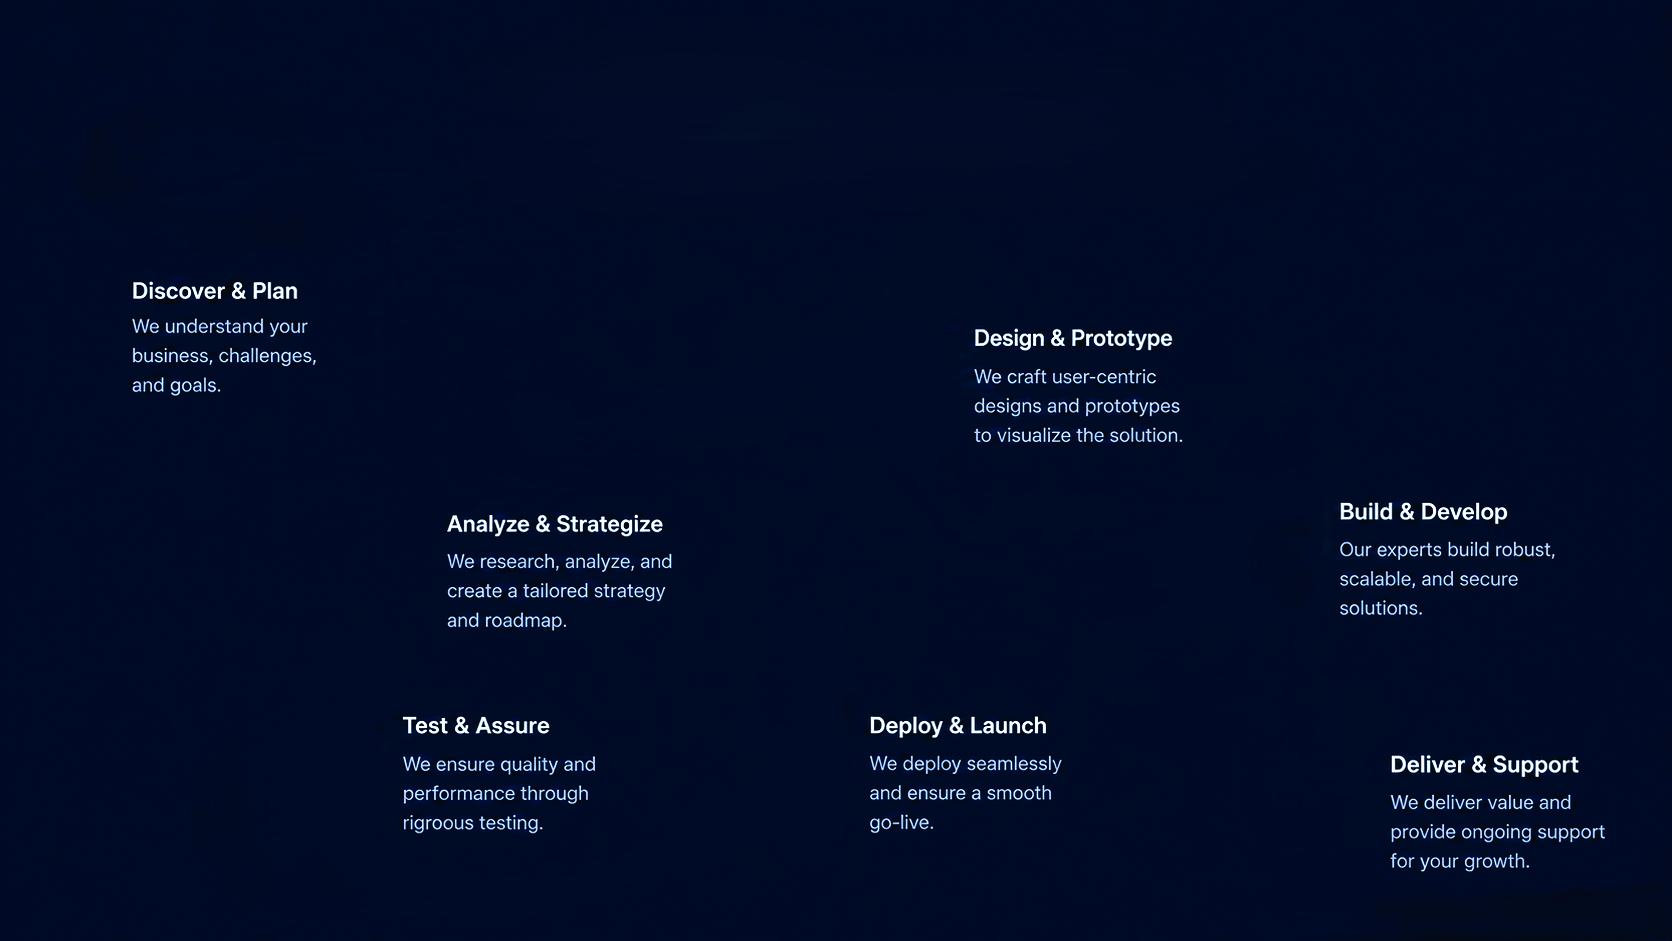
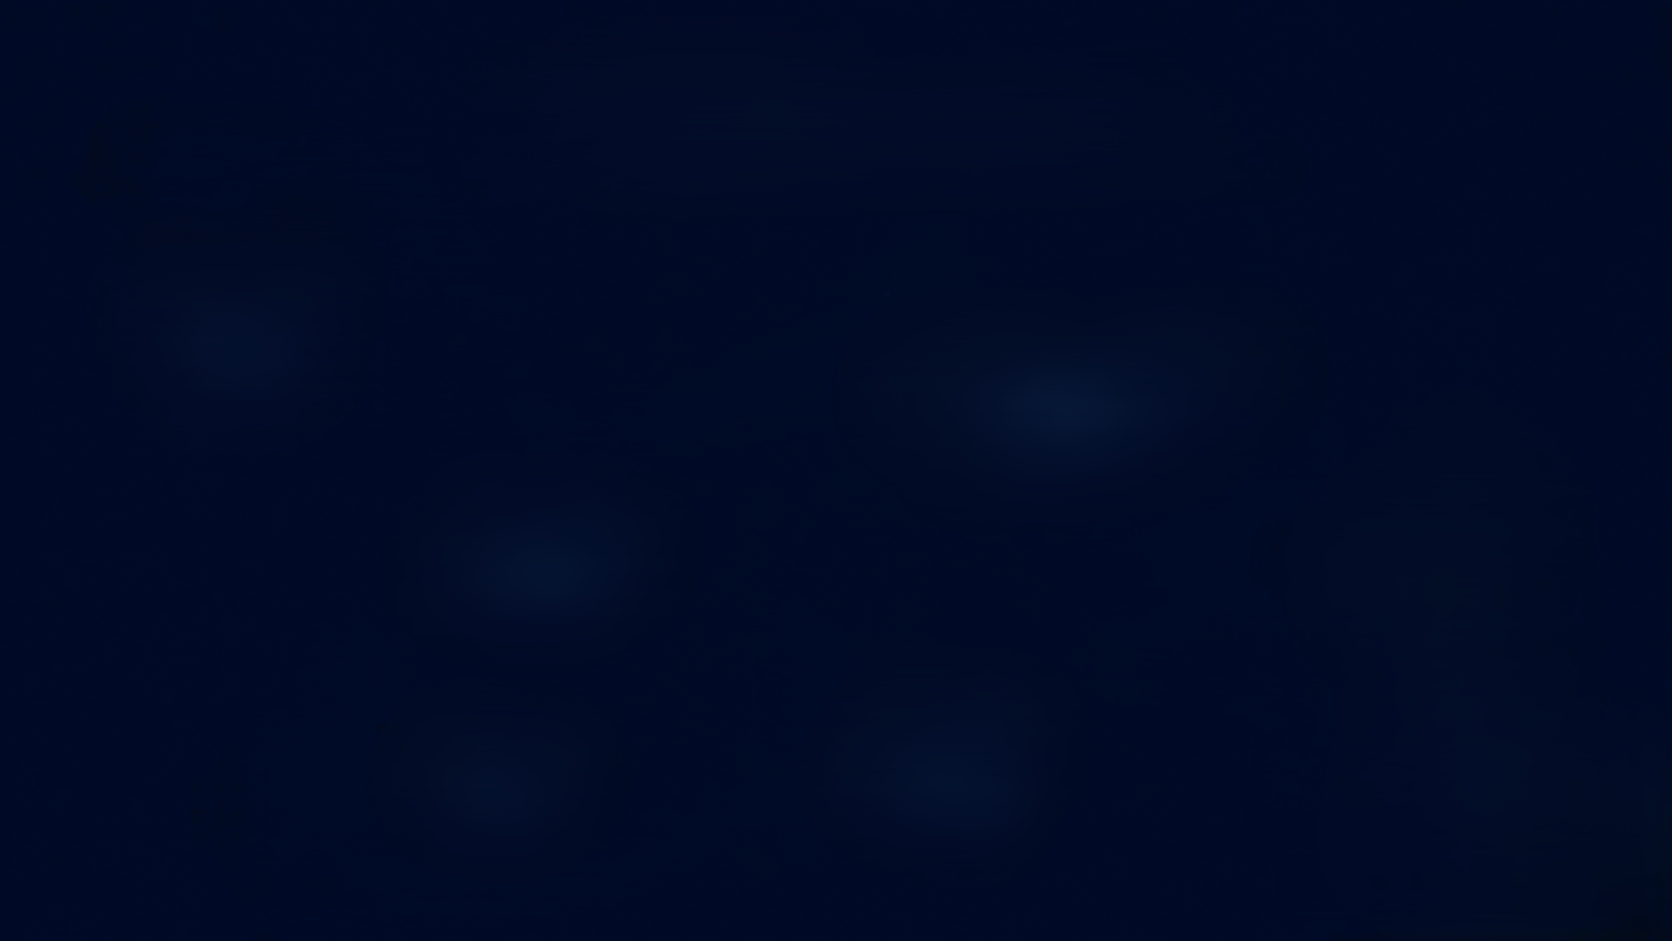
process

diff --git a/components/site/interactive-process-3d.js b/components/site/interactive-process-3d.js
@@ -19,6 +19,7 @@ const PROCESS_STEPS = [
     glowColor: 'rgba(0, 102, 255, 0.95)',
     duration: '2 - 3 Weeks',
     pos: { top: '15.5%', left: '10%' },
+    textPos: { top: '28%', left: '8%' },
     point: { x: 100, y: 62 }
   },
   {
@@ -31,6 +32,7 @@ const PROCESS_STEPS = [
     glowColor: 'rgba(30, 86, 216, 0.95)',
     duration: '3 - 4 Weeks',
     pos: { top: '45.5%', left: '28.5%' },
+    textPos: { top: '55%', left: '26.5%' },
     point: { x: 285, y: 182 }
   },
   {
@@ -43,6 +45,7 @@ const PROCESS_STEPS = [
     glowColor: 'rgba(0, 180, 216, 0.95)',
     duration: '3 - 5 Weeks',
     pos: { top: '36.8%', left: '54.2%' },
+    textPos: { top: '34%', left: '58.5%' },
     point: { x: 542, y: 147 }
   },
   {
@@ -55,6 +58,7 @@ const PROCESS_STEPS = [
     glowColor: 'rgba(16, 185, 129, 0.95)',
     duration: '6 - 12 Weeks',
     pos: { top: '53.2%', left: '76%' },
+    textPos: { top: '52%', left: '80%' },
     point: { x: 760, y: 213 }
   },
   {
@@ -67,6 +71,7 @@ const PROCESS_STEPS = [
     glowColor: 'rgba(245, 158, 11, 0.95)',
     duration: '2 - 4 Weeks',
     pos: { top: '75.2%', left: '19.5%' },
+    textPos: { top: '75%', left: '24%' },
     point: { x: 195, y: 301 }
   },
   {
@@ -79,6 +84,7 @@ const PROCESS_STEPS = [
     glowColor: 'rgba(249, 115, 22, 0.95)',
     duration: '1 - 2 Weeks',
     pos: { top: '75.6%', left: '47.4%' },
+    textPos: { top: '75%', left: '52%' },
     point: { x: 474, y: 302 }
   },
   {
@@ -91,6 +97,7 @@ const PROCESS_STEPS = [
     glowColor: 'rgba(147, 51, 234, 0.95)',
     duration: 'Ongoing SLA',
     pos: { top: '80.2%', left: '78.8%' },
+    textPos: { top: '79%', left: '82.5%' },
     point: { x: 788, y: 321 }
   }
 ];
@@ -107,6 +114,7 @@ const SEGMENT_PATHS = [
 
 export default function InteractiveProcess3D() {
   const [activeStep, setActiveStep] = useState(0);
+  const [hoveredStep, setHoveredStep] = useState(null);
 
   // Continuous Zero-Delay Sequential Path Drawing Animation Loop: 01 -> 02 -> 03 -> 04 -> 05 -> 06 -> 07 -> Reset Loop
   useEffect(() => {
@@ -169,7 +177,7 @@ export default function InteractiveProcess3D() {
             </div>
 
             {/* DESKTOP VIEW BLUEPRINT STAGE (hidden sm:block) - Uses PROCESS.png + Interactive Overlays */}
-            <div className="hidden sm:block relative w-full h-[460px] md:h-[510px] rounded-xl overflow-hidden bg-[#050c1a] border border-[#1b3663]">
+            <div className="hidden sm:block relative w-full h-[480px] md:h-[530px] rounded-xl overflow-hidden bg-[#050c1a] border border-[#1b3663]">
               
               {/* Background Stretched Blueprint Image */}
               <div className="w-full h-full relative">
@@ -178,7 +186,7 @@ export default function InteractiveProcess3D() {
                   alt="From Idea to Impact Process Flow Blueprint"
                   fill
                   priority
-                  className="object-fill w-full h-full"
+                  className="object-fill w-full h-full opacity-60"
                 />
               </div>
 
@@ -234,8 +242,6 @@ export default function InteractiveProcess3D() {
                   ))}
                 </defs>
 
-
-
                 {/* 6 SEQUENTIAL DOTTED PATHS (TRUE ROUND DOTTED BEAD LINES PROGRESSIVELY REVEALED) */}
                 {SEGMENT_PATHS.map((seg) => {
                   const isPastSegment = activeStep > seg.fromStep;
@@ -246,7 +252,7 @@ export default function InteractiveProcess3D() {
 
                   return (
                     <g key={`group-${seg.id}`}>
-                      {/* Crisp Round Dotted Line (strokeDasharray 2 12, strokeLinecap round, NO BLUR SHADOW) */}
+                      {/* Crisp Round Dotted Line (strokeDasharray 2 12, strokeLinecap round) */}
                       <path
                         d={seg.d}
                         fill="none"
@@ -261,20 +267,23 @@ export default function InteractiveProcess3D() {
                 })}
               </svg>
 
-              {/* OVERLAY LAYER: DOT NODES APPEARING / ACTIVATING 1-BY-1 AS LINE REACHES THEM */}
+              {/* OVERLAY LAYER: DOT NODES & CRISP LEFT-ALIGNED TEXT DESCRIPTIONS APPEARING 1-BY-1 */}
               <div className="absolute inset-0 pointer-events-none z-20">
                 {PROCESS_STEPS.map((s, idx) => {
                   const Icon = s.icon;
-                  const isReached = idx <= activeStep;
-                  const isCurrentTarget = idx === activeStep;
+                  const isHovered = hoveredStep === idx;
+                  const isReached = idx <= activeStep || isHovered;
+                  const isCurrentTarget = idx === activeStep || isHovered;
 
                   return (
                     <div
                       key={s.id}
                       style={{ top: s.pos.top, left: s.pos.left }}
                       className="absolute -translate-x-1/2 -translate-y-1/2 pointer-events-auto flex flex-col items-center"
+                      onMouseEnter={() => setHoveredStep(idx)}
+                      onMouseLeave={() => setHoveredStep(null)}
                     >
-                      {/* Step Title Badge Above Circle (Appears when Dot is Reached) */}
+                      {/* Step Title Badge Above Circle */}
                       <motion.div
                         initial={false}
                         animate={{
@@ -332,7 +341,7 @@ export default function InteractiveProcess3D() {
                           </button>
                         </div>
 
-                        {/* Radar Glow Ring on Current Target Circle */}
+                        {/* Radar Glow Ring on Current Target or Hovered Circle */}
                         {isCurrentTarget && (
                           <motion.div
                             animate={{ scale: [1, 1.45, 1], opacity: [0.85, 0.15, 0.85] }}
@@ -344,6 +353,40 @@ export default function InteractiveProcess3D() {
                       </div>
 
                     </div>
+                  );
+                })}
+
+                {/* INDEPENDENTLY POSITIONED CRISP VECTOR TEXT BLOCKS AT USER'S EXACT OFFSET COORDINATES */}
+                {PROCESS_STEPS.map((s, idx) => {
+                  const isHovered = hoveredStep === idx;
+                  const isReached = idx <= activeStep || isHovered;
+                  const isCurrentTarget = idx === activeStep || isHovered;
+
+                  return (
+                    <motion.div
+                      key={`text-${s.id}`}
+                      style={{ top: s.textPos.top, left: s.textPos.left }}
+                      initial={false}
+                      animate={{
+                        opacity: isReached ? 1 : 0.65,
+                        scale: isCurrentTarget ? 1.05 : 1
+                      }}
+                      transition={{ duration: 0.3 }}
+                      className="absolute -translate-y-1/2 max-w-[190px] sm:max-w-[220px] text-left flex flex-col items-start pointer-events-auto z-20 cursor-pointer"
+                      onMouseEnter={() => setHoveredStep(idx)}
+                      onMouseLeave={() => setHoveredStep(null)}
+                      onClick={() => setActiveStep(idx)}
+                    >
+                      <h4
+                        className="text-[14px] sm:text-[15px] font-extrabold tracking-tight drop-shadow-[0_2px_10px_rgba(0,0,0,1)] mb-0.5 transition-colors duration-300"
+                        style={{ color: isReached ? '#ffffff' : '#94a3b8' }}
+                      >
+                        {s.title}
+                      </h4>
+                      <p className="text-[11.5px] sm:text-[12.5px] leading-snug font-medium text-zinc-200 drop-shadow-[0_1px_8px_rgba(0,0,0,1)]">
+                        {s.shortDesc}
+                      </p>
+                    </motion.div>
                   );
                 })}
               </div>
